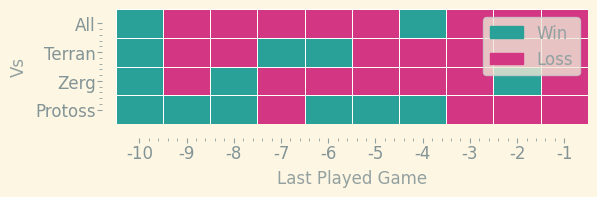
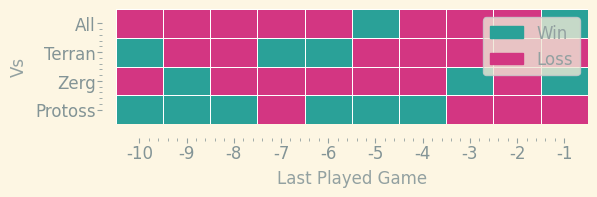
running on push

diff --git a/docs/index.md b/docs/index.md
@@ -18,7 +18,7 @@ layout: home
   <tbody>
     <tr>
       <td>Matches Played</td>
-      <td>1447</td>
+      <td>1448</td>
     </tr>
     <tr>
       <td>MMR Gained</td>
@@ -116,7 +116,7 @@ layout: home
 |:--------|-------:|---------:|--------:|---------------:|-------------:|-----------:|
 | Protoss |    245 |      330 |     575 |        42.6087 |         4524 |       5491 |
 | Terran  |    155 |      198 |     353 |        43.9093 |         3841 |       2878 |
-| Zerg    |    276 |      210 |     486 |        56.7901 |         4508 |       4429 |
+| Zerg    |    276 |      211 |     487 |        56.6735 |         4508 |       4429 |
 
 ![Games by Race](./assets/gm_hist.png)
 
